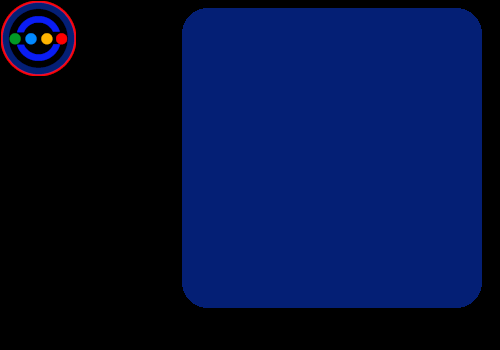
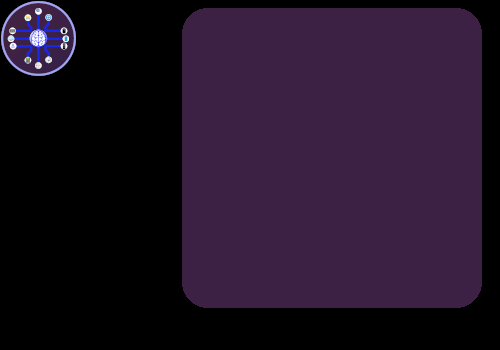
Remplacement du fond de NoConfig

diff --git a/src/copiloteBoot.py b/src/copiloteBoot.py
@@ -43,7 +43,7 @@ class copiloteBoot:
             labeltext = arrTk.createLabel(screen,
                                           text="Désoler mais vous avez pas configuer l'assistant correctement",
                                           ppolice="Arial",ptaille=20,
-                                          pstyle="bold",bg="#041f75",
+                                          pstyle="bold",bg="#3c2144",
                                           fg="white",pwraplength=300,
                                           justify="left")
             btnConf = arrTk.createButton(screen,text="Configurer",ppolice="Arial",ptaille=20,
@@ -72,7 +72,7 @@ class copiloteBoot:
             labeltext = arrTk.createLabel(screen,
                                           text="Une mise à jour d'Arrera copilote est disponible. Installez-la pour bénéficier des dernières fonctionnalités.",
                                           ppolice="Arial",ptaille=20,
-                                          pstyle="bold",bg="#041f75",
+                                          pstyle="bold",bg="#3c2144",
                                           fg="white",pwraplength=250,
                                           justify="left")
 
